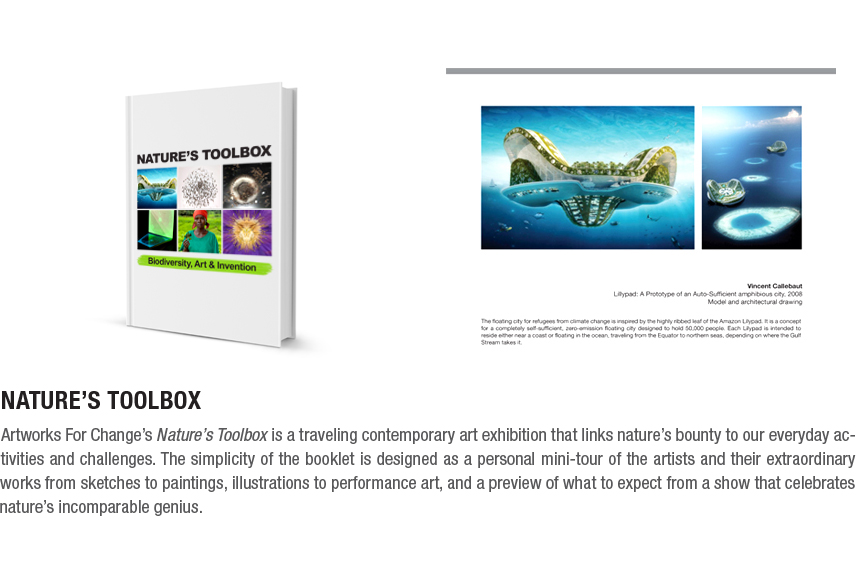
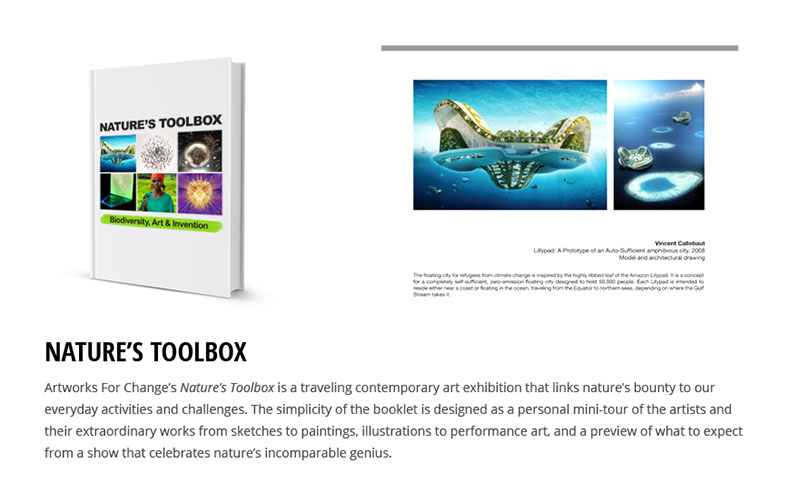
starting work detail section

diff --git a/css/style.css b/css/style.css
@@ -91,7 +91,8 @@ body {
   color: black;
   padding: 0;
   margin: 164px 0 0 0;
-  background-color: #ffffff; }
+  background-color: #ffffff;
+  font-family: "Open Sans"; }
 
 a {
   color: #787d80;
@@ -108,11 +109,10 @@ a {
 .detail-image {
   position: fixed;
   z-index: 1001;
-  padding: 10px;
   background-color: #ffffff;
-  -webkit-box-shadow: 7px 7px 40px rgba(50, 50, 50, 0.5);
-  -moz-box-shadow: 7px 7px 40px rgba(50, 50, 50, 0.5);
-  box-shadow: 7px 7px 40px rgba(50, 50, 50, 0.5); }
+  -webkit-box-shadow: 7px 7px 10px rgba(50, 50, 50, 0.3);
+  -moz-box-shadow: 7px 7px 10px rgba(50, 50, 50, 0.3);
+  box-shadow: 7px 7px 10px rgba(50, 50, 50, 0.3); }
 
 .close-box {
   position: fixed;
@@ -135,7 +135,8 @@ h1 {
   font-size: 3.3em;
   font-family: "Open Sans Condensed", sans-serif;
   font-weight: 400;
-  margin-bottom: 40px; }
+  margin-bottom: 40px;
+  padding: 5px 0; }
 
 h2 {
   color: #787d80;
@@ -143,6 +144,11 @@ h2 {
   font-size: 2em;
   font-family: "Open Sans Condensed", sans-serif;
   font-weight: 400; }
+
+h3 {
+  font-size: 1em;
+  font-weight: 600;
+  padding: 5px 0; }
 
 .wrapper {
   width: 900px;
@@ -302,6 +308,44 @@ h2 {
   padding: 0 50% 40px 20px;
   background: transparent url("../img/lemon-bg.png") no-repeat right top;
   min-height: 500px; }
+
+.work-content {
+  clear: both; }
+
+/* WORK ITEM PAGES */
+.feature-image-section {
+  margin-bottom: 15px; }
+
+.thumbnail-nav {
+  height: 40px; }
+
+.thumb {
+  float: left;
+  margin-right: 5px; }
+
+.work-text {
+  width: 600px;
+  float: left;
+  padding-top: 30px; }
+  .work-text h2 {
+    color: black;
+    padding-bottom: 15px; }
+  .work-text h3 {
+    padding-bottom: 15px; }
+  .work-text p {
+    width: 450px;
+    font-size: .9em;
+    padding: 5px 0; }
+
+.work-titles {
+  width: 300px;
+  float: left;
+  font-family: "Open Sans Condensed";
+  font-size: 1.1em;
+  color: #787d80;
+  text-transform: uppercase; }
+  .work-titles li {
+    padding-bottom: 7px; }
 
 /* LAYOUT STYLES */
 .float-left {

diff --git a/css/style.scss b/css/style.scss
@@ -37,6 +37,7 @@
 		padding: 0;
 		margin: 164px 0 0 0;
 		background-color: #ffffff;
+		font-family: $normaltext;
 	}
 
 	a {
@@ -56,11 +57,10 @@
 	.detail-image {
 		position: fixed;
 		z-index: 1001;
-		padding: 10px;
 		background-color: #ffffff;
-		-webkit-box-shadow: 7px 7px 40px rgba(50, 50, 50, 0.5);
-		-moz-box-shadow:    7px 7px 40px rgba(50, 50, 50, 0.5);
-		box-shadow:         7px 7px 40px rgba(50, 50, 50, 0.5);
+		-webkit-box-shadow: 7px 7px 10px rgba(50, 50, 50, 0.3);
+		-moz-box-shadow:    7px 7px 10px rgba(50, 50, 50, 0.3);
+		box-shadow:         7px 7px 10px rgba(50, 50, 50, 0.3);
 	}
 
 	.close-box {
@@ -87,6 +87,7 @@
 		font-family: $boldcon, sans-serif;
 		font-weight: 400;
 		margin-bottom: 40px;
+		padding: 5px 0;
 	}
 
 	h2 {
@@ -95,6 +96,12 @@
 		font-size: 2em;
 		font-family: $boldcon, sans-serif;
 		font-weight: 400;
+	}
+
+	h3 {
+		font-size: 1em;
+		font-weight: 600;
+		padding: 5px 0;
 	}
 
 	.wrapper {
@@ -287,6 +294,59 @@
 		padding: 0 50% 40px 20px;
 		background: transparent url('../img/lemon-bg.png') no-repeat right top;
 		min-height: 500px;
+	}
+
+	.work-content {
+		clear: both;
+	}
+
+/* WORK ITEM PAGES */
+
+	.feature-image-section {
+		margin-bottom: 15px;
+	}
+
+	.thumbnail-nav {
+		height: 40px;
+	}
+
+	.thumb {
+		float: left;
+		margin-right: 5px;
+	}
+
+	.work-text {
+		width: 600px;
+		float: left;
+		padding-top: 30px;
+
+		h2 {
+			color: $black-text;
+			padding-bottom: 15px;
+		}
+
+		h3 {
+			padding-bottom: 15px;
+		}
+
+		p {
+			width: 450px;
+			font-size: .9em;
+			padding: 5px 0;
+		}
+	}
+
+	.work-titles {
+		width: 300px;
+		float: left;
+		font-family: $boldcon;
+		font-size: 1.1em;
+		color: $grey-text;
+		text-transform: uppercase;
+
+		li {
+			padding-bottom: 7px;
+		}
 	}
 
 /* LAYOUT STYLES */

diff --git a/js/script.js b/js/script.js
@@ -32,6 +32,18 @@
 
 			// Add target='_blank' to the interactive section links
 			$('.interactive-section a').attr('target', '_blank');
+
+			// Only on the work page, change the Interactive link
+			$('#home .interactive-menu-item a').click( function(e) {
+				e.preventDefault();
+				$('html,body').animate(
+				{
+					scrollTop: ($('.interactive').offset().top - 120) + 'px'
+				});
+
+				$('.nav li').removeClass('active');
+				$('.interactive-menu-item').addClass('active');
+			});
 				
 		});
 	};
@@ -122,9 +134,9 @@
 		// 	$('.whiteout, .detail-image, .close-box').fadeOut(1000, function() {$('.whiteout, .detail-image, .close-box').remove();});
 		// } );
 		 
-		$('body').prepend('<div style="top: ' + (screenH - height)/2 + 'px; left: ' + (screenW - width)/2 + 'px; display: none;" " class="detail-image"><img src="' + imageFilePath + '"></div>');
+		$('body').prepend('<div style="top: ' + ((screenH - height)/2 + 20) + 'px; left: ' + (screenW - width)/2 + 'px; display: none;" " class="detail-image"><img src="' + imageFilePath + '"></div>');
 		$('.detail-image').fadeIn(700);
-		$('.detail-image').after('<span class="close-box" style="top: ' + ((screenH-height)/2-20) + 'px; right: ' + ((screenW - width)/2-20) + 'px;">CLOSE</span>');
+		$('.detail-image').after('<span class="close-box" style="top: ' + ((screenH-height)/2) + 'px; right: ' + ((screenW - width)/2+60) + 'px;">CLOSE</span>');
 		$('.close-box, body').click( function() {
 			$('.detail-image, .close-box').fadeOut(1000, function() {$('.detail-image, .close-box').remove();});
 		})

diff --git a/work-green-island.php b/work-green-island.php
@@ -1,0 +1,60 @@
+<!DOCTYPE html>
+<html>
+<head>
+	<title>Lemonjuice</title>
+
+	<link rel="stylesheet" type="text/css" href="css/style.css" />
+</head>
+<body id="home">
+	
+	<div class="wrapper">
+		<?php include 'include/header.php'; ?>
+
+	<div class="section feature-image-section">
+		<img class="feature-image" src="img/work-images/full/green-island/GI-1.jpg">
+	</div>
+
+	<div class="section thumbnail-nav">
+		<img class="thumb" src="img/work-images/thumbs/green-island/thumb1.jpg">
+		<img class="thumb" src="img/work-images/thumbs/green-island/thumb2.jpg">
+	</div>
+
+	<div class="section work-content">
+		<div class="work-text">
+			<h2 class="black">The Green Island</h2>
+			<h3>Identity | Point-of-Purchase | Branding</h3>
+			<p>With the introduction of the first "all eco-friendly" flooring display aptly named <i>The Green Island</i></p>
+		</div>
+
+		<div class="work-titles">
+			<?php include 'include/work-titles.php'; ?>
+		</div>
+	</div>
+
+	</div><!-- /wrapper -->
+
+<!-- <script src="js/jquery-1.6.2.js"></script> -->
+<script src="http://ajax.googleapis.com/ajax/libs/jquery/1.10.2/jquery.min.js"></script>
+<script src="js/script.js"></script>
+
+<script>
+	lemonJuice.initialize();
+	lemonJuice.autoScroll('interactive');
+	lemonJuice.menuHighlight();
+
+	// This is where you input the locations of the left and right "WORK" images
+	var leftImages = [
+			'blue.jpg',
+			'red.jpg',
+			'lemon.jpg'
+		];
+	var rightImages = [
+			'leaf.jpg',
+			'silver.jpg',
+			'squeeze.jpg'
+		];
+
+	lemonJuice.fade(leftImages,rightImages);
+	</script>
+</body>
+</html>

diff --git a/include/work-titles.php b/include/work-titles.php
@@ -1,0 +1,5 @@
+		<ul>
+			<li><a href="work-green-island.php">The Green Island</a></li>
+			<li><a href="work-surfaces.php">Surfaces</a></li>
+			<li><a href="work-formosa.php">Formosa</a></li>
+		</ul>
